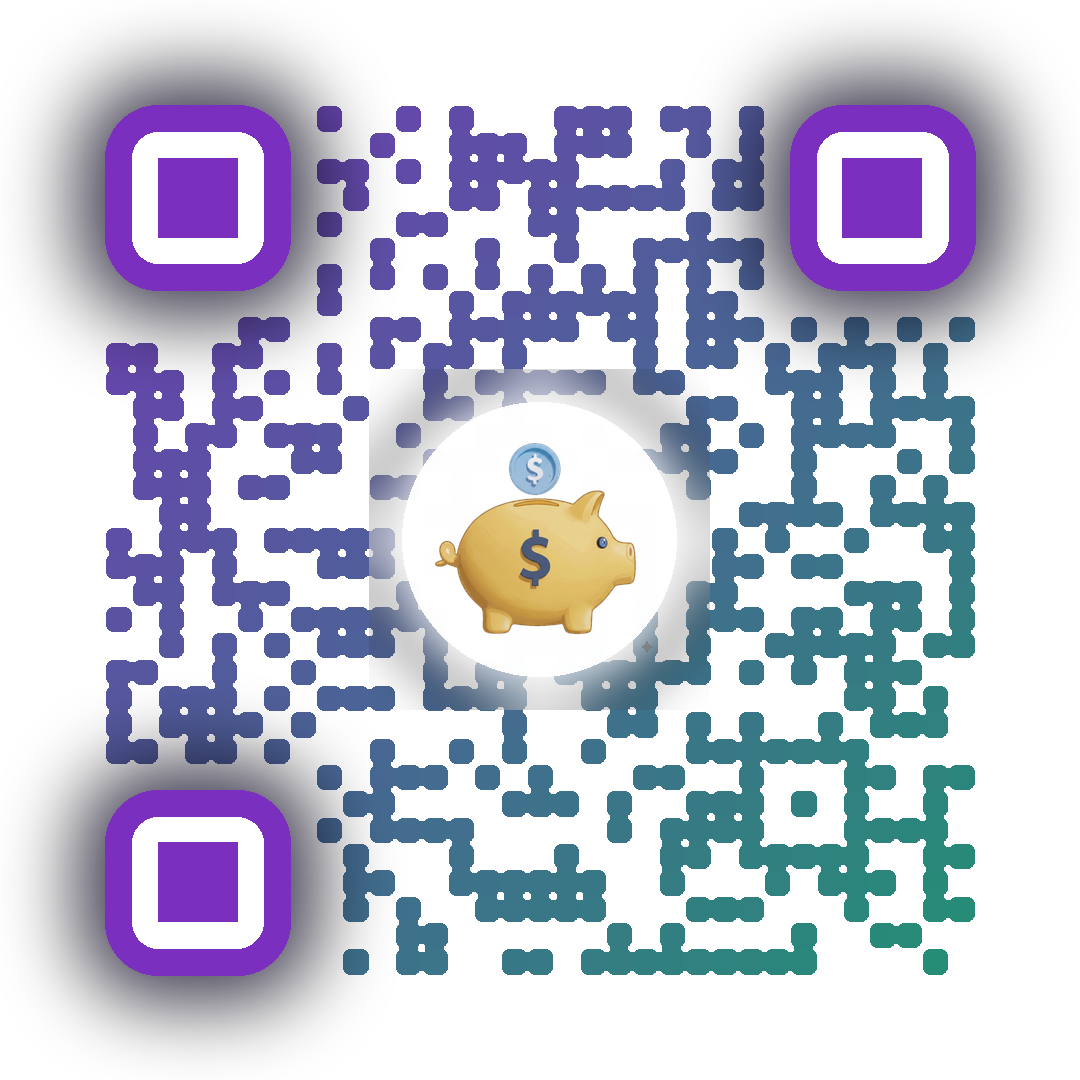
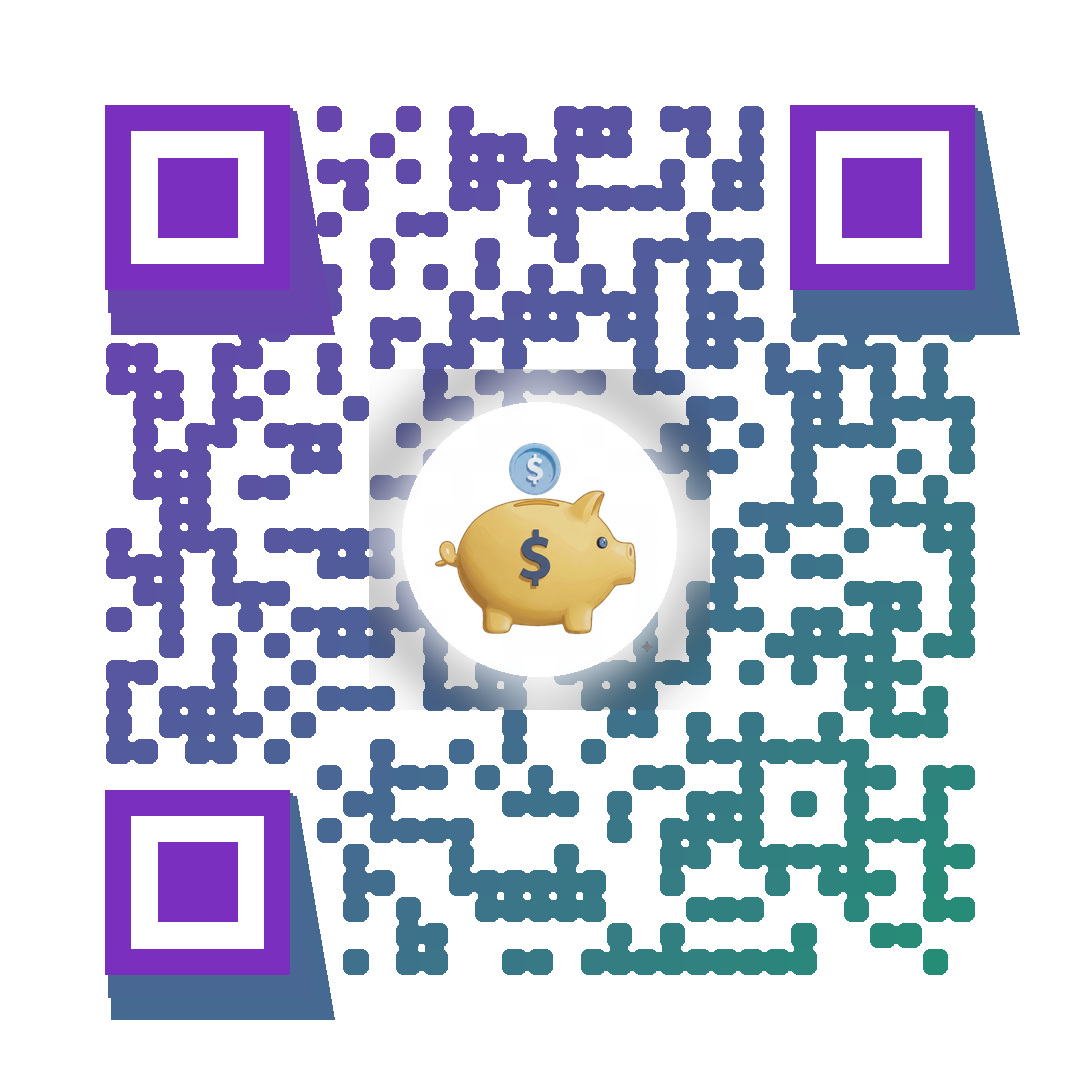
Finder eyes: true trapezoid card-fan using polygon quads
Replace rectangles with proper quadrilateral polygons where the top
edge matches the front frame width but the bottom-right fans out
diagonally — giving the slanted-card perspective the reference shows.

https://claude.ai/code/session_01Rj3emApDmUQom9cwPgUf66

Changed region(s): [[0.6722, 0.0306, 0.9778, 0.3361], [0.0306, 0.0306, 0.3361, 0.3361], [0.0306, 0.6722, 0.3361, 0.9778]]

diff --git a/generate_qr.py b/generate_qr.py
@@ -121,37 +121,43 @@ for row in range(N):
             draw.rectangle([cx - BRIDGE_W, mid, cx + BRIDGE_W, ncy],  fill=bot_f + (255,))
 
 
-# ── FINDER EYES: heavily-rounded squircle frames with dark shadow blob ────────
-# Reference shows iOS-style squircle corners (large radius) and a dark blurred
-# blob/glow surrounding each frame — not offset stacked copies.
+# ── FINDER EYES: trapezoid border rings fanned like a card deck ───────────────
+# Each back layer is a TRUE quadrilateral (trapezoid): top edge same width as
+# the front frame, bottom-right corner fans out diagonally — slanted right and
+# bottom edges give the card-fan perspective illusion.
 
 def draw_stacked_eye(r0c, c0c):
     c0 = c0c * cell
     r0 = r0c * cell
     S7 = 7 * cell
-    r  = cell * 2.0    # heavy rounding — squircle feel
+    bw = cell * 0.9   # border ring thickness ≈ 1 module
 
-    # ── dark shadow blob (blurred rounded rect on separate layer) ──
-    shadow = Image.new("RGBA", (QR_SIZE, QR_SIZE), (0, 0, 0, 0))
-    sd = ImageDraw.Draw(shadow)
-    pad = cell * 1.0
-    sd.rounded_rectangle(
-        [c0 - pad, r0 - pad, c0 + S7 + pad, r0 + S7 + pad],
-        radius=r + pad, fill=(20, 15, 50, 210))
-    shadow = shadow.filter(ImageFilter.GaussianBlur(radius=cell * 1.4))
-    img.alpha_composite(shadow)
+    # Back layers drawn back-to-front.
+    # near = top-left shift (small), far = bottom-right shift (large)
+    # → right edge slants outward; bottom drops lower → true trapezoid card-fan
+    for near, far in [(cell * 0.25, cell * 1.7), (cell * 0.12, cell * 0.88)]:
+        shade = grad(c0 + S7 / 2 + far, r0 + S7 / 2 + far)
+        outer = [
+            (c0 + near,      r0 + near),       # top-left
+            (c0 + S7 + near, r0 + near),       # top-right (same width as front)
+            (c0 + S7 + far,  r0 + S7 + far),   # bottom-right (fans out)
+            (c0 + near,      r0 + S7 + far),   # bottom-left
+        ]
+        inner = [
+            (c0 + near + bw,      r0 + near + bw),
+            (c0 + S7 + near - bw, r0 + near + bw),
+            (c0 + S7 + far  - bw, r0 + S7 + far - bw),
+            (c0 + near + bw,      r0 + S7 + far - bw),
+        ]
+        draw.polygon(outer, fill=shade + (255,))
+        draw.polygon(inner, fill=(255, 255, 255, 255))
 
-    # ── outer border ring ──
-    draw.rounded_rectangle([c0, r0, c0 + S7, r0 + S7],
-                           radius=r, fill=COLOR_A + (255,))
-    # white gap (1 module inset)
+    # ── front frame: sharp-cornered border ring + white gap + inner core ──
+    draw.rectangle([c0,     r0,     c0 + S7,     r0 + S7],     fill=COLOR_A + (255,))
     g = cell
-    draw.rounded_rectangle([c0 + g, r0 + g, c0 + S7 - g, r0 + S7 - g],
-                           radius=max(r - g, 0), fill=(255, 255, 255, 255))
-    # inner solid core (2 modules inset)
+    draw.rectangle([c0 + g, r0 + g, c0 + S7 - g, r0 + S7 - g], fill=(255, 255, 255, 255))
     m = cell * 2
-    draw.rounded_rectangle([c0 + m, r0 + m, c0 + S7 - m, r0 + S7 - m],
-                           radius=max(r - m, 0), fill=COLOR_A + (255,))
+    draw.rectangle([c0 + m, r0 + m, c0 + S7 - m, r0 + S7 - m], fill=COLOR_A + (255,))
 
 draw_stacked_eye(QUIET,           QUIET)
 draw_stacked_eye(QUIET,           N - QUIET - 7)
